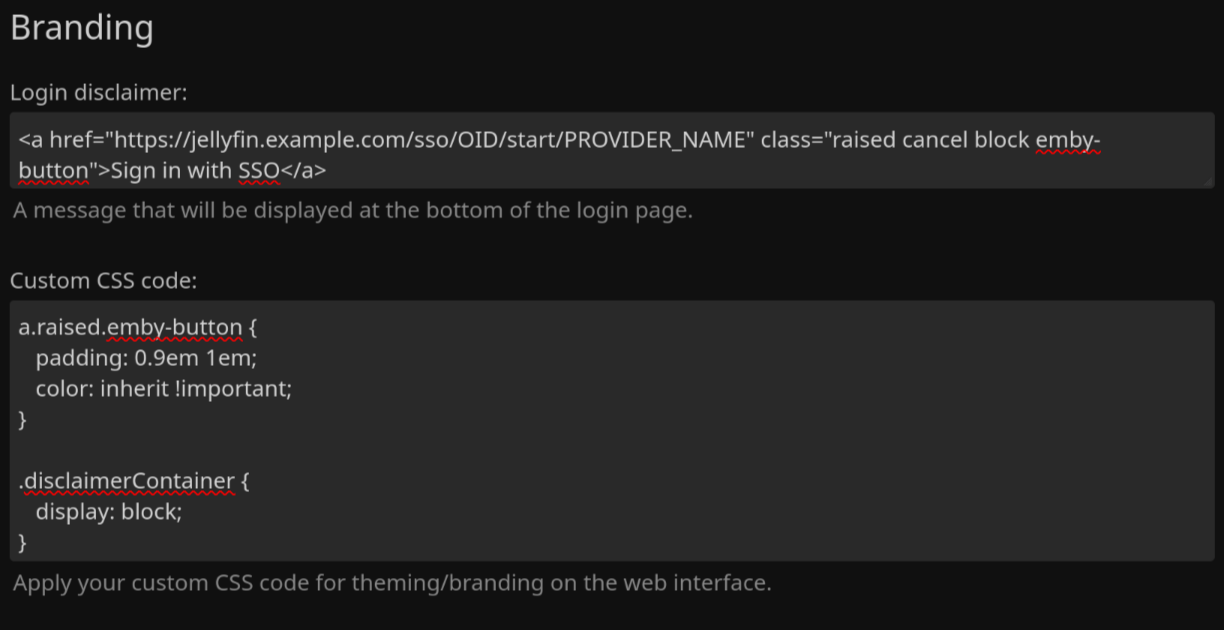
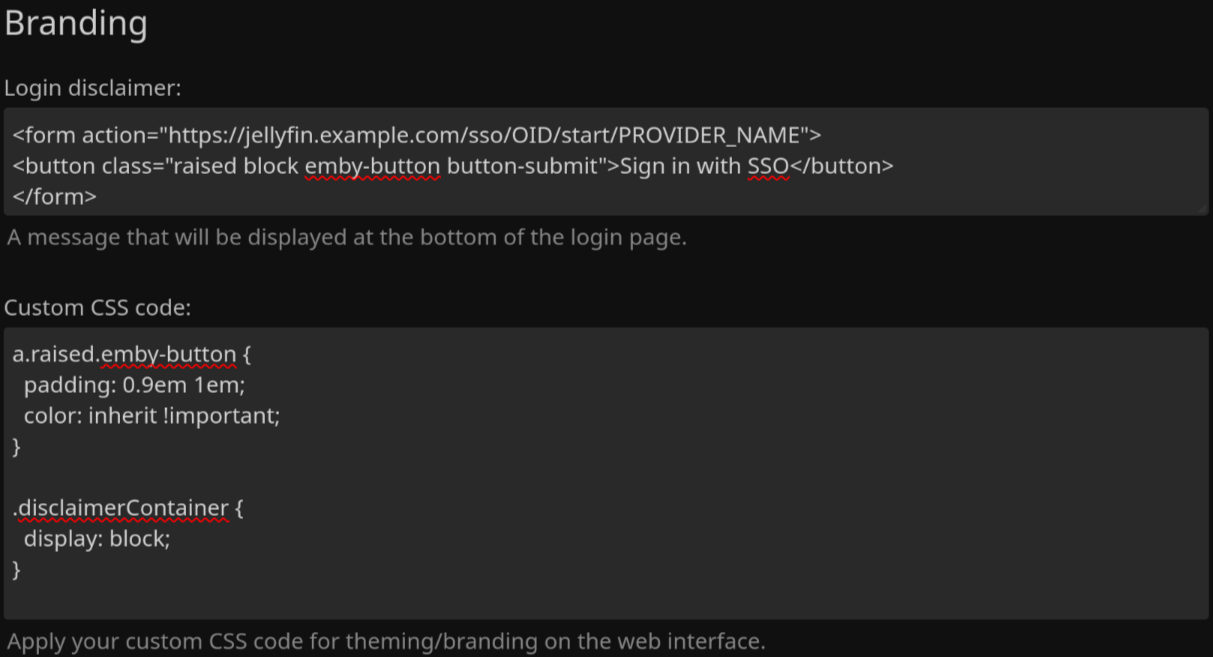
Update README to use form-based login button

Changed region(s): [[0.0, 0.4222, 1.0, 0.9952], [0.0, 0.1206, 1.0, 0.3921], [0.0, 0.0, 0.122, 0.0905]]

diff --git a/README.md b/README.md
@@ -98,11 +98,9 @@ The nightly build may have new features unavailable in other builds, but **be wa
 In the Jellyfin administration UI, under "General", there is a "Branding" section. In that section, add the following code in the "Login disclaimer" block (replacing `PROVIDER_NAME` and the domain):
 
 ```html
-<a
-  href="https://jellyfin.example.com/sso/OID/start/PROVIDER_NAME"
-  class="raised cancel block emby-button"
-  >Sign in with SSO</a
->
+<form action="https://jellyfin.example.com/sso/OID/start/PROVIDER_NAME">
+<button class="raised block emby-button button-submit">Sign in with SSO</button>
+</form>
 ```
 
 Then, add the following code in the "Custom CSS code" section:
